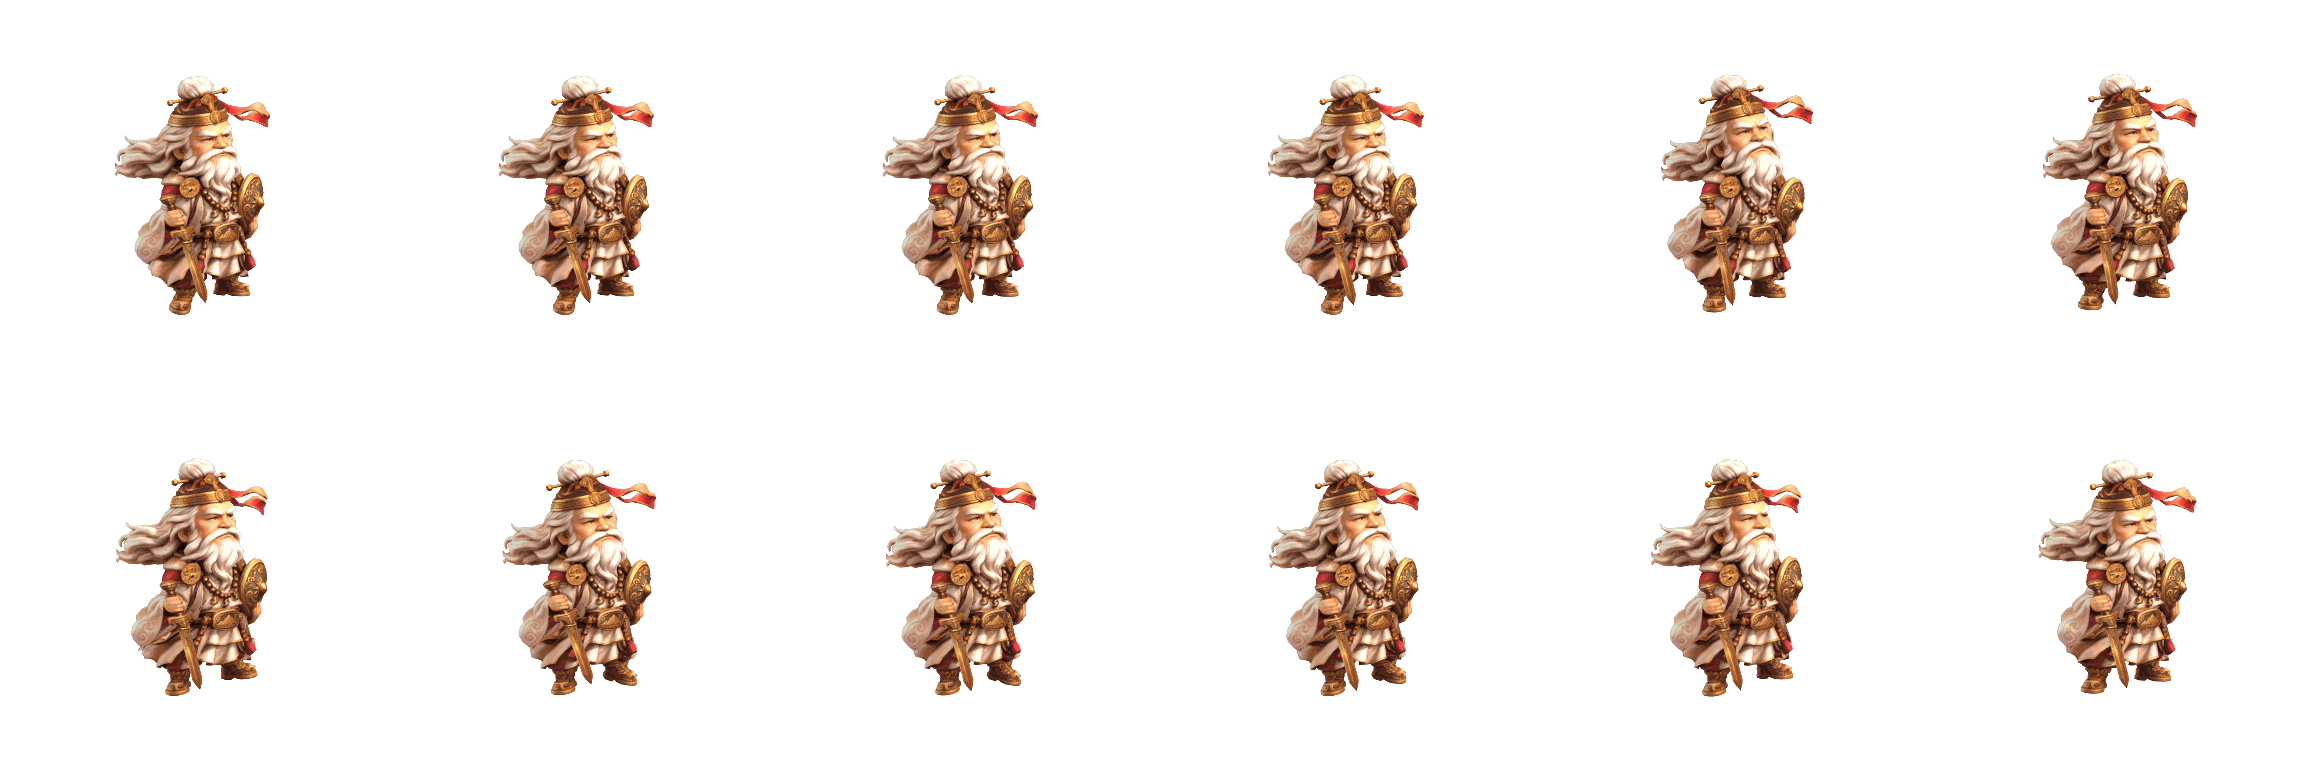
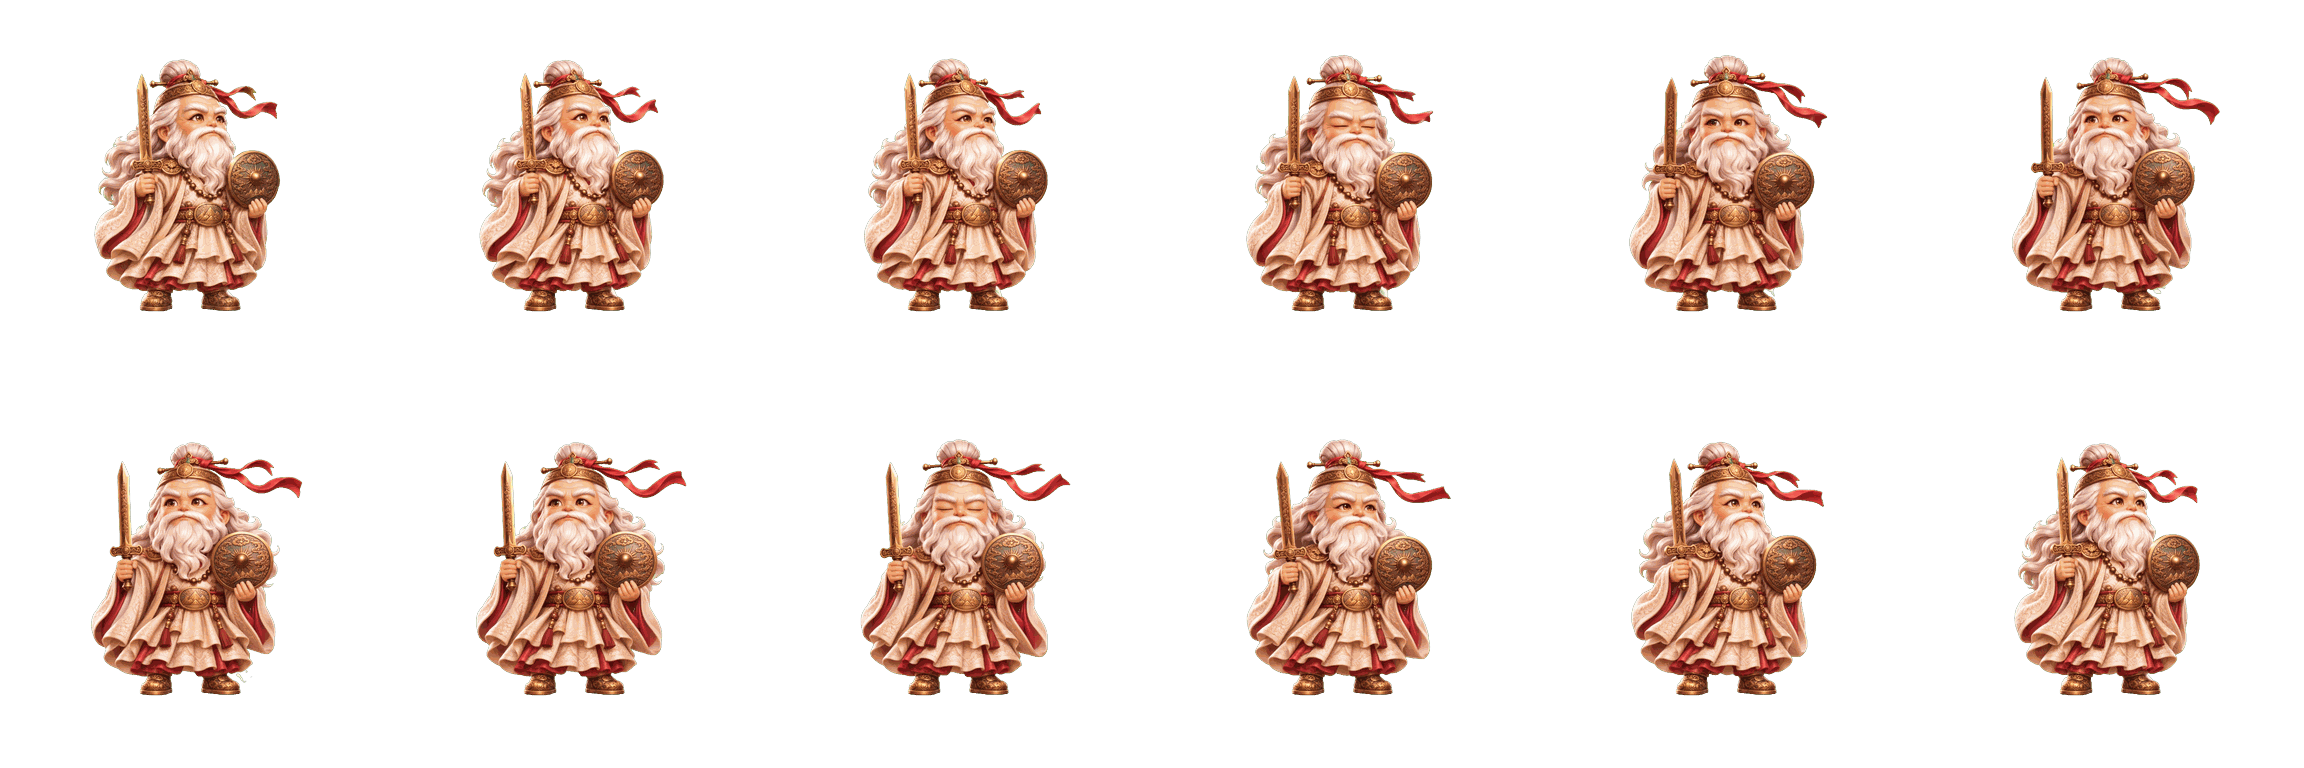
★★★ 9명 판 위 동작을 클링 영상 그림으로 바꿈
- GPT로 그린 참고 그림 → 클링 4.0 Flash(3초, 720p) 대기·걷기·공격
- 여포·이순신·알렉산더·세종·제갈량·다빈치·제우스·손오공·단군
- kling_run.py: 한 번에 받는 수만큼만 올리고 줄 세워 이어 올림

Claude-Session: https://claude.ai/code/session_01JPWR7ZFhvPeejBM3RB4Pqs

diff --git a/tools/kling_run.py b/tools/kling_run.py
@@ -60,7 +60,8 @@ def main() -> None:
 	only = set(order.get("only", []))
 	if order.get("recover"):
 		_recover(headers)
-	tasks = {}
+	# 할 일 목록을 만들고, 클링이 한 번에 받는 수(parallel, 기본 4)만큼만 올려 두고 끝나면 다음 것을 올린다.
+	queue = []
 	for job in order["jobs"]:
 		image = base64.b64encode((ROOT / job["image"]).read_bytes()).decode()
 		for kind, motion in job["kinds"].items():
@@ -70,41 +71,58 @@ def main() -> None:
 			if (OUT / (name + ".mp4")).exists() and not order.get("redo"):
 				print("이미 있음:", name)
 				continue
+			contents = [{"type": "prompt", "text": motion + " " + order["common"]}, {"type": "first_frame", "url": image}]
+			if "flash" not in order.get("model", ""):
+				contents.append({"type": "last_frame", "url": image})
+			queue.append((name, contents, int(job.get("duration", order.get("duration", 3)))))
+	limit = int(order.get("parallel", 4))
+	tasks = {}
+	tries = {}
+	deadline = time.time() + 50 * 60
+	while (queue or tasks) and time.time() < deadline:
+		while queue and len(tasks) < limit:
+			name, contents, seconds = queue[0]
 			body = {
-				"contents": [
-					{"type": "prompt", "text": motion + " " + order["common"]},
-					{"type": "first_frame", "url": image},
-				] + ([] if "flash" in order.get("model", "") else [{"type": "last_frame", "url": image}]),
-				"settings": {"resolution": order.get("resolution", "720p"), "duration": int(job.get("duration", order.get("duration", 3)))},
+				"contents": contents,
+				"settings": {"resolution": order.get("resolution", "720p"), "duration": seconds},
 				"options": {"watermark_info": {"enabled": False}, "external_task_id": "%s_%d" % (name, int(time.time()))},
 			}
 			reply = requests.post("%s/image-to-video/%s" % (BASE, order.get("model", "kling-4.0")), headers=headers, json=body, timeout=120)
 			data = reply.json() if reply.headers.get("content-type", "").startswith("application/json") else {}
-			print("올림:", name, reply.status_code, json.dumps(data, ensure_ascii=False)[:400])
 			task = (data.get("data") or {}).get("id")
 			if task:
-				tasks[task] = name
-	deadline = time.time() + 40 * 60
-	while tasks and time.time() < deadline:
-		time.sleep(20)
+				queue.pop(0)
+				tasks[task] = (name, contents, seconds)
+				print("올림:", name)
+			elif data.get("code") == 1303:
+				break  # 한 번에 받는 수가 찼다. 하나 끝날 때까지 기다린다.
+			else:
+				queue.pop(0)
+				print("올리기 실패:", name, reply.status_code, json.dumps(data, ensure_ascii=False)[:300])
+		if not tasks:
+			time.sleep(15)
+			continue
+		time.sleep(15)
 		reply = requests.get("%s/tasks" % BASE, headers=headers, params={"task_ids": ",".join(tasks)}, timeout=60)
 		for item in (reply.json().get("data") or []):
-			name = tasks.get(item.get("id"))
+			entry = tasks.get(item.get("id"))
 			status = item.get("status")
-			if not name or status not in ("succeeded", "failed"):
+			if not entry or status not in ("succeeded", "failed"):
 				continue
 			del tasks[item["id"]]
+			name = entry[0]
 			if status == "failed":
-				print("실패:", name, json.dumps(item, ensure_ascii=False)[:600])
+				tries[name] = tries.get(name, 0) + 1
+				print("실패:", name, str(item.get("message", ""))[:200])
+				if tries[name] < 3:
+					queue.append(entry)
 				continue
 			videos = [o for o in item.get("outputs", []) if o.get("type") == "video"]
-			if not videos:
-				print("영상 없음:", name, json.dumps(item, ensure_ascii=False)[:600])
-				continue
-			_download(videos[0]["url"], headers, OUT / (name + ".mp4"))
-		print("남은 작업:", len(tasks))
-	if tasks:
-		print("시간 안에 끝나지 않은 작업:", tasks)
+			if videos:
+				_download(videos[0]["url"], headers, OUT / (name + ".mp4"))
+		print("남은 작업:", len(queue) + len(tasks))
+	if tasks or queue:
+		print("시간 안에 끝나지 않은 작업:", [t[0] for t in tasks.values()] + [q[0] for q in queue])
 
 
 if __name__ == "__main__":

diff --git a/CLAUDE.md b/CLAUDE.md
@@ -32,7 +32,7 @@
 - 소환 연출(2026-11-17, 기획서는 프로젝트 문서 `claude/주사위영웅전_소환연출기획.md`): `scripts/ui/summon_show.gd`(SummonShow, 전체 화면 한 장면). 별빛 제단 → 운명의 주사위 강림(누르거나 1.5초) → 승격(최고 등급까지 파랑→보라→금, 번쩍·흔들림) → 빛기둥 → 뒷면 카드 배치 → 차례로 뒤집기(★★★는 등장 컷: 금빛 배경·큰 초상화·음성·꽃가루) → 결과(확인·한 번 더). 건너뛰기 버튼과 자동 사진(`instant`)은 곧바로 결과 장면. 상점의 `_summon`이 `await show.play(app, 결과, 한 번 더 값)`으로 띄운다(결과는 연출 전에 저장됨). 그림은 `assets/ui_summon/`(바탕 bg_altar·bg_glory, 주사위 die_blue·purple·gold, 카드 뒷면 card_back_*, 앞면 틀 card_front_*[창 위치는 meta.json], 딱지 badge_new), 주문서 `codex_work/job_summon.md`, 넣는 도구 `tools/import_summon.py <out/summon>`. 그림이 없으면 단색으로 대신한다. 자동 사진 `09_summon`(결과)·`09a~09e`(연출 장면).
 - 타이틀 로고(2026-11-17): 사용자가 고른 ChatGPT 시안의 타이틀처럼 금빛 로고 `assets/logos/title.png`(주사위 엠블럼·월계수·보석, 글자 포함)·부제 리본 `title_ribbon.png`·금 마름모 `title_diamond.png`를 `title_screen.gd`의 `_build_art_title`이 키 아트 위에 올린다. 그림이 없으면 예전 글자 제목. 로고는 보라 보석이 지워지지 않게 가장자리와 이어진 자홍만 바탕으로 지웠다.
 - 3D 모델(트리포, 2026-11-16 시험): 꼬마 모형 그림 한 장을 트리포(Tripo) API로 3D 모델 → 뼈대 → 동작(idle·walk·slash)까지 만들고, 블렌더(화면 없이, GitHub 서버)로 찍어 12칸 가로 그림 `assets/standees_anim/<id>_<동작>.png`으로 넣는다(`GameData.standee_anims`, `board_view.gd`의 `piece_anims`: 이동 중이면 walk. 2026-11-18 사용자 지적으로 서 있을 때는 idle 그림의 첫 장면에 멈추고 `_breath`로 숨쉬기만 한다. 트리포 대기 동작은 고개를 두리번거려 목이 흔들려 보였다. 파티원 두 명은 선봉 뒤 양옆 ±0.46칸·0.22칸 위에 0.78배로 선다). 주문서는 `tripo/jobs.json`, 도구는 `tools/tripo_run.py`(API 키는 저장소 비밀값 `TRIPO_API_KEY`, 예전 v2 주소로 연결됨)·`tools/tripo_render.py`, 작업 흐름은 `.github/workflows/tripo.yml`(`claude/tripo`로 시작하는 브랜치에서 `tripo/`가 바뀌면 돈다. 결과는 실행 결과물 `tripo-out`). 한 명에 약 85크레딧. 찍는 방향은 주문서의 `view`(도, 90이 트리포 정면)로 영웅마다 정한다. 뼈대를 못 넣는 모델(말 탄 마초, 목란)은 멈춘 그림 그대로 둔다. 파티원 두 명도 `party_anims`로 움직인다. API 크레딧이 없을 때는 트리포 웹(studio.tripo3d.ai, 크롬)에서 만든다: 그림 올리기 → 생성(55) → 리토폴로지 삼각형 1만(35) → 자동 리깅(20) → 프리셋 걷기·베기·대기 선택(무료) → 내보내기(GLB, 텍스처 1k, 애니메이션 모두, 제자리). 내려받은 GLB를 `tripo/web/<id>.glb`로 넣고 주문서에 `"local"`로 적으면 찍는다. 웹에서 내보낸 모델은 정면이 대체로 0도라 `view`는 -15쯤이지만 옆을 보는 것도 있어, 찍은 그림을 보고 영웅마다 고친다(값을 키우면 그림에서 왼쪽으로 돈다). 여러 명을 내보낼 때는 크롬이 둘째 파일부터 막으므로 사용자가 '여러 파일 자동 다운로드'를 허용해야 한다. 2026-11-16에 48명 모두 넣었다(웹 38명). 2026-11-18 다시 찍음: 찍는 방향은 이제 뼈대(mixamo 이름의 좌우 어깨·팔·허벅지, 발끝)로 앞 방향을 재서 모두 앞이 화면 오른쪽으로 40도 돌아간 모습으로 맞춘다(`tripo_render.py`의 `skeleton_forward`·TURN_RIGHT, 영웅별 덧보정은 주문서의 `turn_fix`, 몇 명만 다시 찍을 때는 주문서의 `only`). 모델 원본(GLB)과 이 도구들은 `claude/tripo-web`·`claude/tripo-face` 브랜치에 있다. 결과는 `tools/import_standee_anims.py <받은 폴더>`로 넣는다(칸마다 발을 땅선 81.25%에 맞추고 걸음 오르내림은 1.5%까지만, 256색). 그림은 칸 384픽셀, 6칸씩 두 줄(2304×768)로 찍고 256색으로 줄여 넣는다(`board_view.gd`의 `_anim_region`이 예전 12칸 한 줄 그림도 읽는다). 찍기는 여섯 서버가 나눠 한다(`SHARD`). 이미 만든 작업 번호(model_task·rig_task·anim_task)를 주문서에 적어 두면 다시 만들지 않는다.
-- 영상 모형(2026-11-18, 사용자 요청): 클링(Kling) 영상이 트리포 모형보다 품질이 좋아 구미호부터 바꿨다(대기·걷기·공격 모두). 클링 API(저장소 비밀값 `KLING_API_KEY`, 새 방식 한 개 키를 `Authorization: Bearer`로, 주소 api-singapore.klingai.com)로 만든다: 주문서 `kling/jobs.json`(2026-11-18 사용자 결정: 모델 Kling 4.0 Flash `kling-4.0-flash`, 3초, 720p. Flash는 첫 장면만 받아 반복은 프롬프트로 부탁함. 카메라 고정·초록 #00FF00 바탕·제자리 동작), 참고 그림 `kling/ref/<id>.png`(초록 바탕 1024 정사각), 도구 `tools/kling_run.py`, 작업 흐름 `.github/workflows/kling.yml`(`claude/kling`으로 시작하는 브랜치에서 `kling/jobs.json`·`kling/ref`가 바뀌면 돌고, 받은 mp4를 그 브랜치의 `kling/out/`에 올림. 이미 받은 영상은 다시 만들지 않음, `only`로 골라 만들기, 한 번에 3초 약 0.28달러). mp4는 main에 올리지 않고 `claude/kling-*` 브랜치에만 둔다(`kling/.gdignore`). 넣는 도구 `tools/import_video_standee.py <영상> <id> <동작> 1 0`(초록 바탕이면 초록을 지우고 모든 장면을 같은 크기·자리로, 아니면 rembg로 지우고 2차 곡선으로 떨림 방지, 12장 → 6칸×2줄·256색). 구미호 걷기 영상만 처음 시험한 Kling 4.0으로 만들었다. 비교 미리보기 페이지는 Claude 아티팩트 '구미호 모형 미리보기'.
+- 영상 모형(2026-11-18, 사용자 요청): 클링(Kling) 영상이 트리포 모형보다 품질이 좋아 구미호부터 바꿨다(대기·걷기·공격 모두). 클링 API(저장소 비밀값 `KLING_API_KEY`, 새 방식 한 개 키를 `Authorization: Bearer`로, 주소 api-singapore.klingai.com)로 만든다: 주문서 `kling/jobs.json`(2026-11-18 사용자 결정: 모델 Kling 4.0 Flash `kling-4.0-flash`, 3초, 720p. Flash는 첫 장면만 받아 반복은 프롬프트로 부탁함. 카메라 고정·초록 #00FF00 바탕·제자리 동작), 참고 그림 `kling/ref/<id>.png`(초록 바탕 1024 정사각), 도구 `tools/kling_run.py`, 작업 흐름 `.github/workflows/kling.yml`(`claude/kling`으로 시작하는 브랜치에서 `kling/jobs.json`·`kling/ref`가 바뀌면 돌고, 받은 mp4를 그 브랜치의 `kling/out/`에 올림. 이미 받은 영상은 다시 만들지 않음, `only`로 골라 만들기, 한 번에 3초 약 0.28달러). mp4는 main에 올리지 않고 `claude/kling-*` 브랜치에만 둔다(`kling/.gdignore`). 넣는 도구 `tools/import_video_standee.py <영상> <id> <동작> 1 0`(초록 바탕이면 초록을 지우고 모든 장면을 같은 크기·자리로, 아니면 rembg로 지우고 2차 곡선으로 떨림 방지, 12장 → 6칸×2줄·256색). 구미호 걷기 영상만 처음 시험한 Kling 4.0으로 만들었다. 2026-11-18 ★★★ 12명도 시작(사용자 요청 '3성만'): 참고 그림은 Codex 웹(GPT-6.2 Sol)에 [구미호 그림(화풍)·꼬마 모형(의상)·초상화(얼굴)] 세 칸 판을 올려 오른쪽을 보고 선 꼬마 모형을 초록 바탕으로 그리게 해 `kling/ref/<id>.png`로 넣었다(재료 판은 `claude/kling-3star` 브랜치의 `kling/src/`). 클링은 한 번에 받는 작업 수가 적어(4개쯤 넘으면 1303 오류) `kling_run.py`가 주문서의 `parallel`만큼만 올리고 차례로 잇는다. 여포·이순신·알렉산더·세종·제갈량·다빈치·제우스·손오공·단군 9명을 넣었고, 테슬라·나이팅게일·에디슨은 클링 잔액이 떨어져(1102 Account balance not enough) 남았다(테슬라 대기 영상만 받아 둠). 영상 mp4는 `claude/kling-3star` 브랜치 `kling/out/`. 비교 미리보기 페이지는 Claude 아티팩트 '구미호 모형 미리보기'.
 - 공격 동작(2026-11-18): 48명 모두 `assets/standees_anim/<id>_slash.png`(트리포 웹 모형은 chop, API 모형은 slash 동작을 찍음). 찍기는 `claude/tripo-slash` 브랜치(주문서 `kinds: ["slash"]`면 그 동작만 찍음, `tripo_render.py`의 KINDS). 쓰는 곳은 전투 창 `battle_overlay.gd`: 영웅 모형은 움직이는 그림(AtlasTexture, `_anim_sides`·`_set_anim_frame`)으로 서 있다가(idle 첫 장면 + 숨쉬기) 부딪칠 때 두 쪽이 함께 벤다(`_swing`, 0.6초). 웹 모형의 chop은 몸을 깊이 숙이는 장면이 있어 부딪침 번쩍임과 겹치게 맞췄다. 자동 사진 `16b_battle_slash`.
 - 화면 방식(2026-11-16): 가로 전용·전체 화면. 웹은 처음 누를 때 전체 화면과 가로 고정을 청하고(`main.gd`의 `_setup_display`, 설정의 전체 화면 켜기·끄기), 세로로 들면 안내 대신 게임이 스스로 90도 돌아 언제나 가로로 그려진다(`main.gd`의 `_fit_orientation`: 틀 전체를 돌리고 기준 크기를 720×1280으로 바꾼다). 그래서 화면 크기는 `get_viewport_rect()`가 아니라 틀(`app.size`)에서 얻고, 다른 칸의 위치는 `global_position`끼리 빼지 말고 `Kit.spot_in`으로 구한다. 화면 좌표는 `app.to_app`으로 바꾼다.
 - 가로 화면(2026-11-15 전환, 1280×720): 로비는 모두의 마블식(왼쪽 세로 메뉴·큰 영웅 카드와 장식 액자 `assets/ui_frames/lobby_frame.png`·배너·게임 시작), 맵은 원작 주사위의 잔영식(통짜 풍경 `assets/art/boards/<지형>.jpg`은 거울 2×2 이어 붙이기, 두꺼운 육각 칸 `assets/hex/<칸 종류>.png`, 가까운 카메라, 파티 3명이 함께 이동, 칸 위 물건 `assets/objects/`). 주사위와 전투는 창을 띄우지 않고 판 위에서 바로 보여 준다. 글·설명 칸은 단색 상자 대신 장식 판(`scripts/ui/ornate_box.gd`, `Kit.plate`/`Kit.panel`)과 리본 제목(`Kit.ribbon`)을 쓴다. 화면마다 판 색이 다르다(`main.gd`의 SCREEN_MOODS → `Kit.panel_tint`). 다른 화면의 아래 메뉴는 `Kit.screen_frame`의 왼쪽 자리(Dock)로 옮겨 가 세로 메뉴가 된다. 가로 배경은 `assets/art/wide/`(`GameData.art`가 WIDE_ART로 먼저 찾음), 입체 로고는 `assets/logos/`(`GameData.logo`). 시험 빌드는 PR 없이 `gh workflow run build.yml --ref <브랜치>`로 돌려 사진만 확인할 수 있다.
